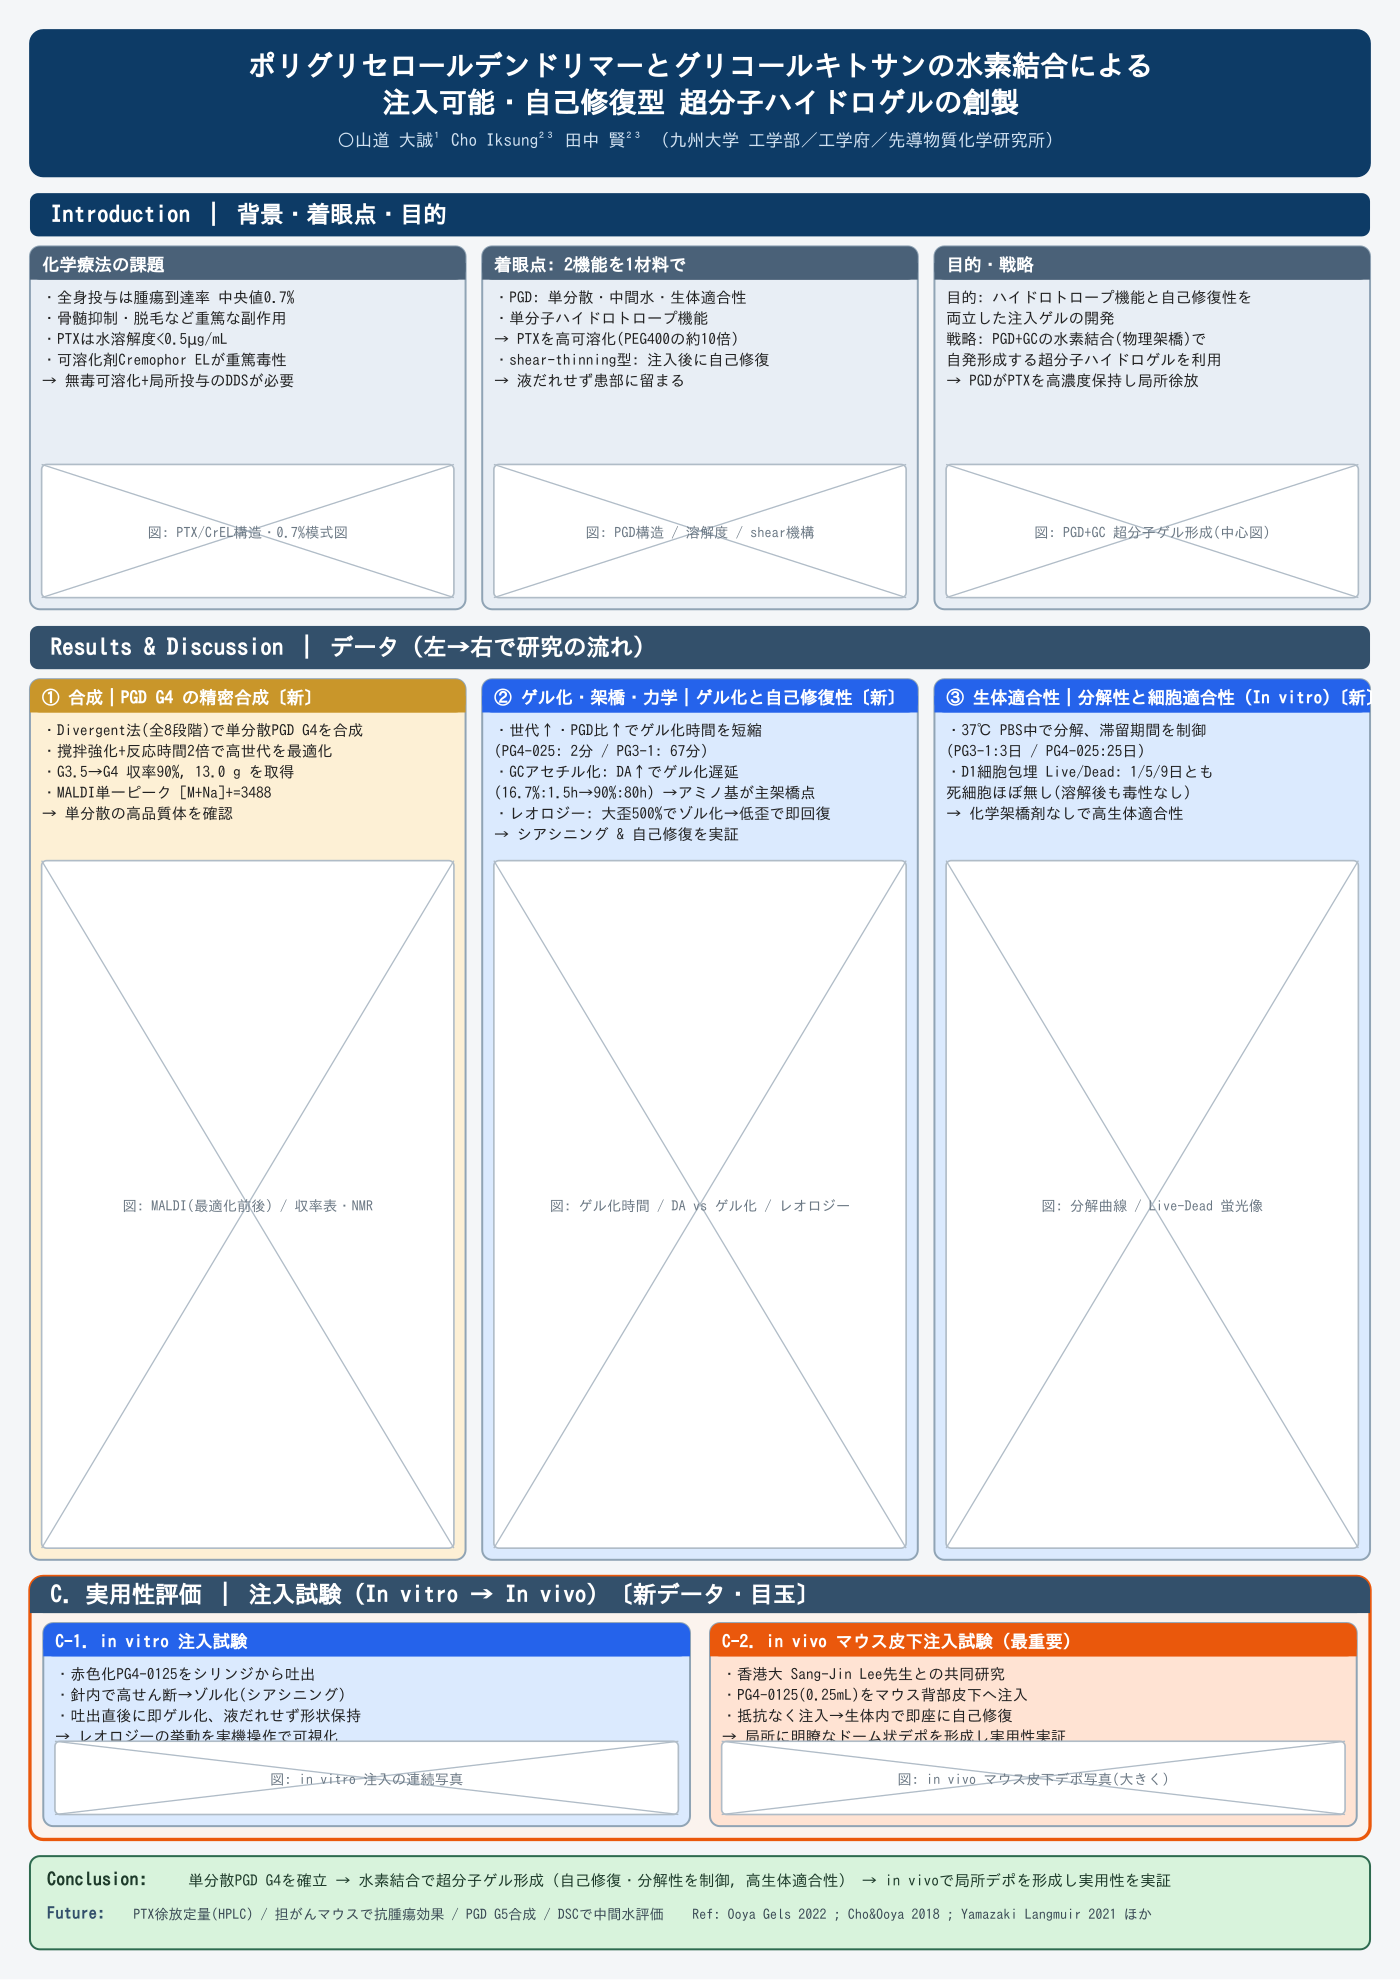
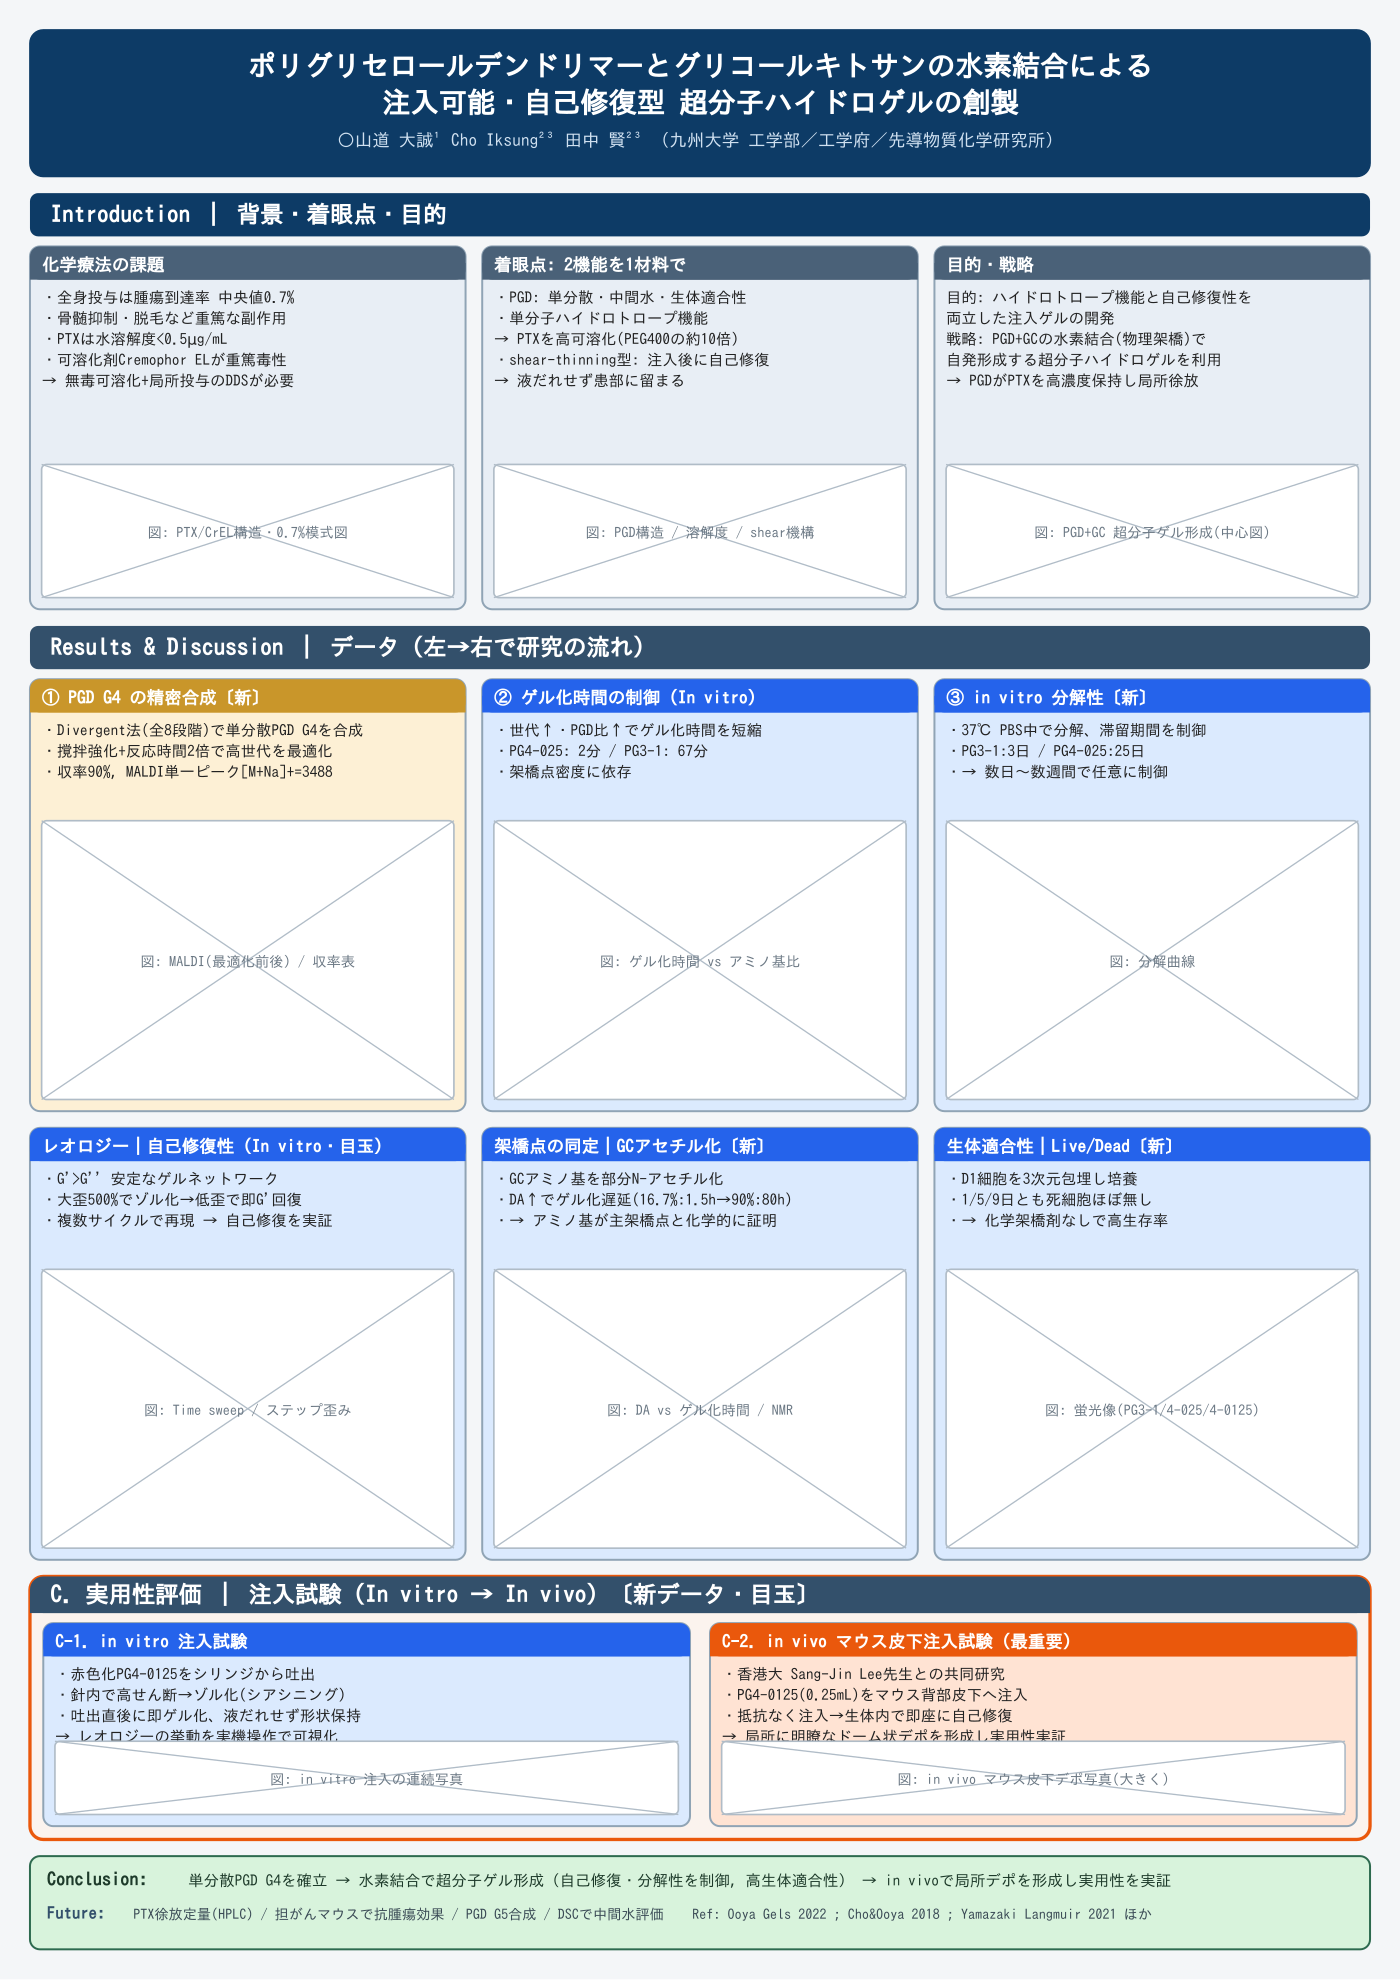
データ部を2x3グリッドに均等化
レオロジー(自己修復)を①列へ移し、各列2枚ずつ(合成+レオロジー / ゲル化+架橋 /
分解+生体)に。①合成の過大な枠を解消し②の詰め込みも分散。本文は要点3項目に圧縮。
mockup・pptx更新。

https://claude.ai/code/session_01KuqqzALcpZUj35jC8BQaFN

diff --git a/poster/make_pptx.py b/poster/make_pptx.py
@@ -174,36 +174,47 @@ dx0 = M; dx1 = M + colw + gap; dx2 = M + 2*(colw+gap)
 data_y = ry + 14
 data_h = inj_y - gap - data_y
 
-# 各列1枚に統合(計3枚)。本文を要点に絞り、図を大きく
-fig_h = data_h - 66
+# 各列2枚ずつ(計6枚)で高さを均等化。本文は要点3項目に絞る
+ph = (data_h - gap) / 2
+fh = ph - 44   # 各パネルの図枠高さ
+yt = data_y
+yb = data_y + ph + gap
 
-# Col1: ① 合成(PGD G4のみ)
-panel(dx0, data_y, colw, data_h, "① 合成｜PGD G4 の精密合成〔新〕",
+# Col1: 合成 + レオロジー(自己修復)
+panel(dx0, yt, colw, ph, "① PGD G4 の精密合成〔新〕",
       ["・Divergent法(全8段階)で単分散PGD G4を合成",
        "・撹拌強化＋反応時間2倍で高世代を最適化",
-       "・G3.5→G4 収率90%, 13.0 g を取得",
-       "・MALDI 単一ピーク [M+Na]⁺=3488",
-       "  → 単分散の高品質体を確認"],
-      C_MAT, C_MAT_BAR, fig_caption="図: MALDI(最適化前後) / 収率表・NMR", fig_h=fig_h)
+       "・収率90%, MALDI単一ピーク [M+Na]⁺=3488"],
+      C_MAT, C_MAT_BAR, fig_caption="図: MALDI(最適化前後) / 収率表", fig_h=fh)
+panel(dx0, yb, colw, ph, "レオロジー｜自己修復性 (In vitro・目玉)",
+      ["・G′>G″ 安定なゲルネットワーク",
+       "・大歪500%でゾル化 → 低歪で即 G′回復",
+       "・複数サイクルで再現 → 自己修復を実証"],
+      C_VITRO, C_VITRO_BAR, fig_caption="図: Time sweep / ステップ歪み", fig_h=fh)
 
-# Col2: ② ゲル化・架橋・力学(ゲル化時間+アセチル化+レオロジー)
-panel(dx1, data_y, colw, data_h, "② ゲル化・架橋・力学｜ゲル化と自己修復性〔新〕",
+# Col2: ゲル化時間 + 架橋点(アセチル化)
+panel(dx1, yt, colw, ph, "② ゲル化時間の制御 (In vitro)",
       ["・世代↑・PGD比↑でゲル化時間を短縮",
-       "  (PG4-025: 2分 / PG3-1: 67分)",
-       "・GCアセチル化: DA↑でゲル化遅延",
-       "  (16.7%:1.5h→90%:80h) → アミノ基が主架橋点",
-       "・レオロジー: 大歪500%でゾル化→低歪で即回復",
-       "  → シアシニング & 自己修復を実証"],
-      C_VITRO, C_VITRO_BAR, fig_caption="図: ゲル化時間 / DA vs ゲル化 / レオロジー", fig_h=fig_h)
+       "・PG4-025: 2分 / PG3-1: 67分",
+       "・架橋点密度に依存"],
+      C_VITRO, C_VITRO_BAR, fig_caption="図: ゲル化時間 vs アミノ基比", fig_h=fh)
+panel(dx1, yb, colw, ph, "架橋点の同定｜GCアセチル化〔新〕",
+      ["・GCアミノ基を部分N-アセチル化",
+       "・DA↑でゲル化遅延 (16.7%:1.5h→90%:80h)",
+       "・→ アミノ基が主架橋点と化学的に証明"],
+      C_VITRO, C_VITRO_BAR, fig_caption="図: DA vs ゲル化時間 / NMR", fig_h=fh)
 
-# Col3: ③ 生体適合性
-panel(dx2, data_y, colw, data_h, "③ 生体適合性｜分解性と細胞適合性 (In vitro)〔新〕",
+# Col3: 分解性 + 生体適合性
+panel(dx2, yt, colw, ph, "③ in vitro 分解性〔新〕",
       ["・37℃ PBS中で分解、滞留期間を制御",
-       "  (PG3-1:3日 / PG4-025:25日)",
-       "・D1細胞包埋 Live/Dead: 1/5/9日とも",
-       "  死細胞ほぼ無し(溶解後も毒性なし)",
-       "→ 化学架橋剤なしで高い生体適合性"],
-      C_VITRO, C_VITRO_BAR, fig_caption="図: 分解曲線 / Live-Dead 蛍光像", fig_h=fig_h)
+       "・PG3-1:3日 / PG4-025:25日",
+       "・→ 数日〜数週間で任意に制御"],
+      C_VITRO, C_VITRO_BAR, fig_caption="図: 分解曲線", fig_h=fh)
+panel(dx2, yb, colw, ph, "生体適合性｜Live/Dead〔新〕",
+      ["・D1細胞を3次元包埋し培養",
+       "・1/5/9日とも死細胞ほぼ無し",
+       "・→ 化学架橋剤なしで高生存率"],
+      C_VITRO, C_VITRO_BAR, fig_caption="図: 蛍光像(PG3-1/4-025/4-0125)", fig_h=fh)
 
 # --- C. 実用性評価: 注入試験(全幅・独立帯, In vitro→In vivo)---
 box(M, inj_y, cw, band_inject_h, RGBColor(0xfb,0xf3,0xee), line=C_VIVO_BAR, line_w=2.0)

diff --git a/poster/make_mockup.py b/poster/make_mockup.py
@@ -125,36 +125,47 @@ data_y = ry + 32
 data_bottom = inj_y - gap
 data_h = data_bottom - data_y
 
-# --- 各列1枚に統合(計3枚)。余白を確保しつつ図を大きく ---
-fig_h = data_h - 116  # 本文(箇条書き)以外を図枠に
+# --- 各列2枚ずつ(計6枚)で高さを均等化 ---
+ph = (data_h - gap) / 2
+fh = ph - 92  # 各パネルの図枠高さ(本文3〜4行ぶんを上に確保)
+yt = data_y
+yb = data_y + ph + gap
 
-# Col1: ① 合成(PGD G4のみ)
-panel(dx0, data_y, colw, data_h, "① 合成｜PGD G4 の精密合成〔新〕",
+# Col1: 合成 + レオロジー(自己修復)
+panel(dx0, yt, colw, ph, "① PGD G4 の精密合成〔新〕",
       ["・Divergent法(全8段階)で単分散PGD G4を合成",
        "・撹拌強化+反応時間2倍で高世代を最適化",
-       "・G3.5→G4 収率90%, 13.0 g を取得",
-       "・MALDI単一ピーク [M+Na]+=3488",
-       "  → 単分散の高品質体を確認"],
-      C_MAT, bar="#c9962a", fig="図: MALDI(最適化前後) / 収率表・NMR", fig_h=fig_h)
+       "・収率90%, MALDI単一ピーク[M+Na]+=3488"],
+      C_MAT, bar="#c9962a", fig="図: MALDI(最適化前後) / 収率表", fig_h=fh)
+panel(dx0, yb, colw, ph, "レオロジー｜自己修復性 (In vitro・目玉)",
+      ["・G'>G'' 安定なゲルネットワーク",
+       "・大歪500%でゾル化→低歪で即G'回復",
+       "・複数サイクルで再現 → 自己修復を実証"],
+      C_VITRO, bar=C_VITRO_BAR, fig="図: Time sweep / ステップ歪み", fig_h=fh)
 
-# Col2: ② ゲル化・架橋・力学(ゲル化時間+アセチル化+レオロジー)
-panel(dx1, data_y, colw, data_h, "② ゲル化・架橋・力学｜ゲル化と自己修復性〔新〕",
+# Col2: ゲル化時間 + 架橋点(アセチル化)
+panel(dx1, yt, colw, ph, "② ゲル化時間の制御 (In vitro)",
       ["・世代↑・PGD比↑でゲル化時間を短縮",
-       "  (PG4-025: 2分 / PG3-1: 67分)",
-       "・GCアセチル化: DA↑でゲル化遅延",
-       "  (16.7%:1.5h→90%:80h) →アミノ基が主架橋点",
-       "・レオロジー: 大歪500%でゾル化→低歪で即回復",
-       "  → シアシニング & 自己修復を実証"],
-      C_VITRO, bar=C_VITRO_BAR, fig="図: ゲル化時間 / DA vs ゲル化 / レオロジー", fig_h=fig_h)
+       "・PG4-025: 2分 / PG3-1: 67分",
+       "・架橋点密度に依存"],
+      C_VITRO, bar=C_VITRO_BAR, fig="図: ゲル化時間 vs アミノ基比", fig_h=fh)
+panel(dx1, yb, colw, ph, "架橋点の同定｜GCアセチル化〔新〕",
+      ["・GCアミノ基を部分N-アセチル化",
+       "・DA↑でゲル化遅延(16.7%:1.5h→90%:80h)",
+       "・→ アミノ基が主架橋点と化学的に証明"],
+      C_VITRO, bar=C_VITRO_BAR, fig="図: DA vs ゲル化時間 / NMR", fig_h=fh)
 
-# Col3: ③ 生体適合性
-panel(dx2, data_y, colw, data_h, "③ 生体適合性｜分解性と細胞適合性 (In vitro)〔新〕",
+# Col3: 分解性 + 生体適合性
+panel(dx2, yt, colw, ph, "③ in vitro 分解性〔新〕",
       ["・37℃ PBS中で分解、滞留期間を制御",
-       "  (PG3-1:3日 / PG4-025:25日)",
-       "・D1細胞包埋 Live/Dead: 1/5/9日とも",
-       "  死細胞ほぼ無し(溶解後も毒性なし)",
-       "→ 化学架橋剤なしで高生体適合性"],
-      C_VITRO, bar=C_VITRO_BAR, fig="図: 分解曲線 / Live-Dead 蛍光像", fig_h=fig_h)
+       "・PG3-1:3日 / PG4-025:25日",
+       "・→ 数日〜数週間で任意に制御"],
+      C_VITRO, bar=C_VITRO_BAR, fig="図: 分解曲線", fig_h=fh)
+panel(dx2, yb, colw, ph, "生体適合性｜Live/Dead〔新〕",
+      ["・D1細胞を3次元包埋し培養",
+       "・1/5/9日とも死細胞ほぼ無し",
+       "・→ 化学架橋剤なしで高生存率"],
+      C_VITRO, bar=C_VITRO_BAR, fig="図: 蛍光像(PG3-1/4-025/4-0125)", fig_h=fh)
 
 # ===== C. 実用性評価: 注入試験(全幅・独立帯)=====
 # 外枠 + 全幅ヘッダー
